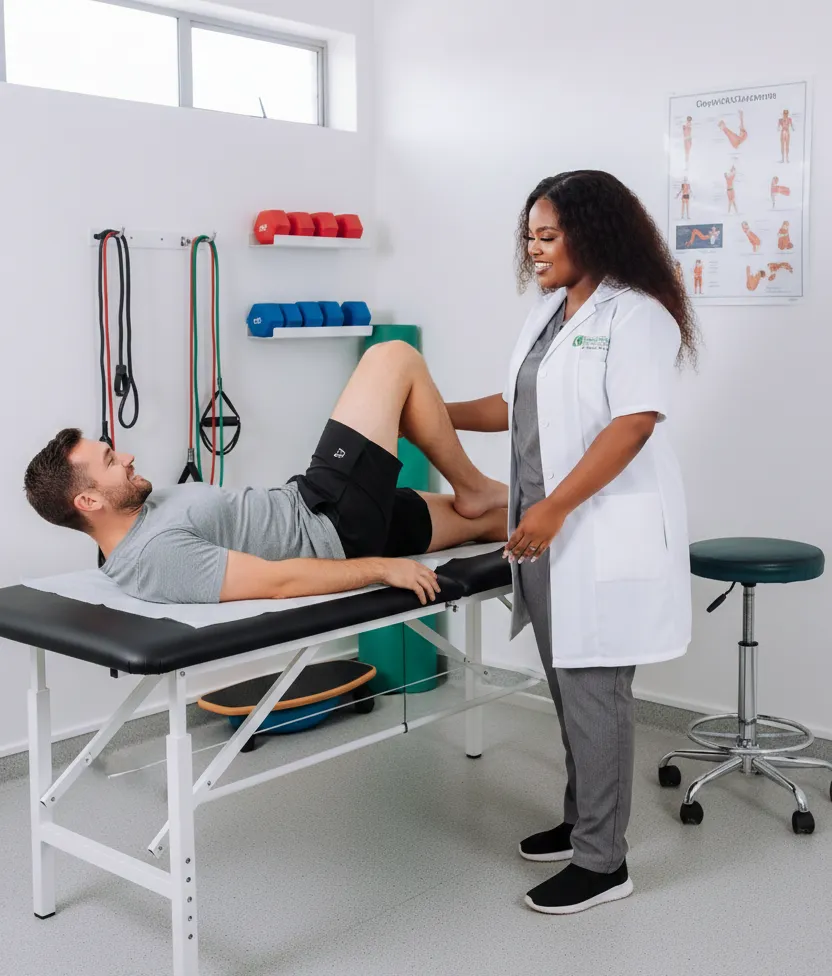
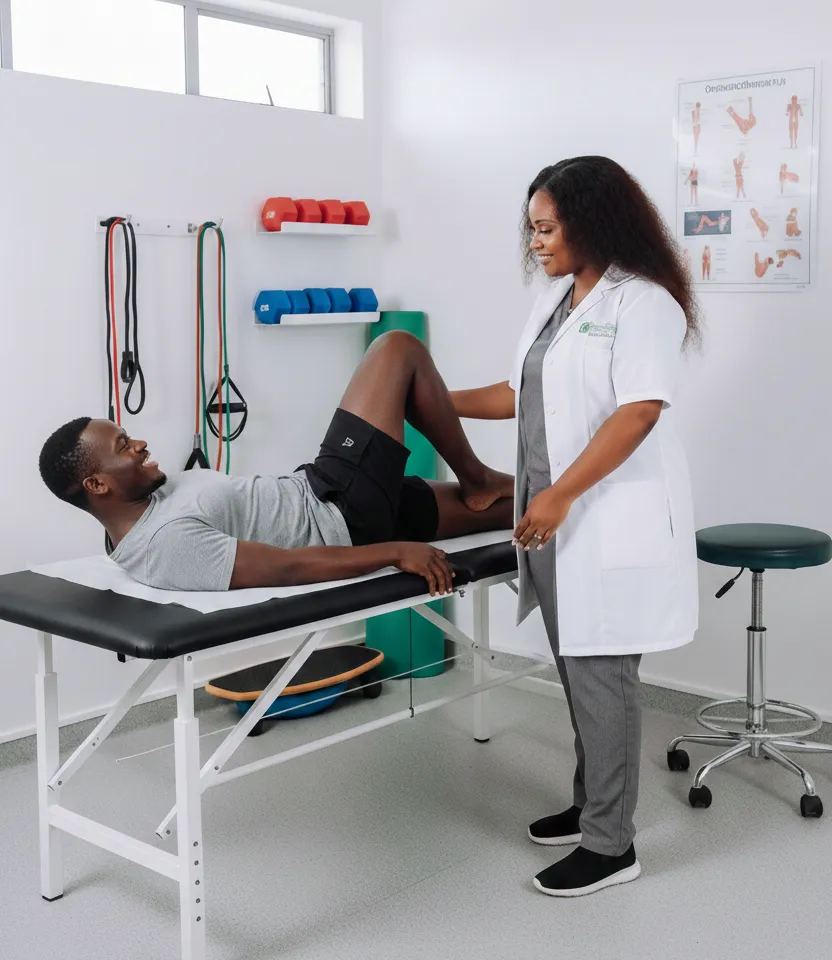
Refactor code structure for improved readability and maintainability

diff --git a/index.html b/index.html
@@ -53,7 +53,7 @@
             <div class="hero-text">
                 <span class="hero-badge">Physiotherapy &amp; Rehabilitation</span>
                 <h1>Evidence-Based Physiotherapy for <span class="accent">Every Step</span> of Your Journey</h1>
-                <p>Noxolo Duma Physiotherapy delivers evidence-based, research-informed physiotherapy with a special focus on orthopaedic, neurological, neurosurgical, and cardiothoracic conditions across KwaZulu-Natal.</p>
+                <p>Noxolo Duma Physiotherapy delivers evidence-based, research-informed physiotherapy with a special focus on orthopaedic, neurological, neurosurgical, and cardiothoracic conditions across Durban CBD and Pinetown.</p>
                 <div class="hero-btns">
                     <button class="btn-primary" onclick="openBooking()">Book an Appointment</button>
                     <button class="btn-outline" onclick="showPage('services')">Our Services</button>
@@ -68,12 +68,12 @@
             </div>
             <div class="hero-visual">
                 <div class="hero-card-main">
-                    <img src="Noxolo-Duma-Image.jpg" alt="Physiotherapy treatment">
+                    <img src="Noxolo-Duma-Main-Image.webp" alt="Physiotherapy treatment">
                     <div class="hero-badge-float">
                         <div class="badge-icon">✦</div>
                         <div>
                             <strong>HPCSA Registered</strong>
-                            <p>PhD Candidate · UKZN</p>
+                            <p>Founder · Director · PhD Candidate · UKZN</p>
                         </div>
                     </div>
                 </div>
@@ -87,13 +87,13 @@
     <!-- TRUST BAR -->
     <section class="trust-bar">
         <div class="trust-container">
-            <div class="trust-item"><span class="trust-icon">🎓</span><span>PhD Candidate · UKZN</span></div>
+            <div class="trust-item"><span class="trust-icon">🎓</span><span>PhD Candidate (UKZN)</span></div>
             <div class="trust-sep"></div>
-            <div class="trust-item"><span class="trust-icon">📋</span><span>Master of Public Health (B.Physio)</span></div>
+            <div class="trust-item"><span class="trust-icon">📋</span><span>Master of Public Health (UKZN)</span></div>
+            <div class="trust-sep"></div>
+            <div class="trust-item"><span class="trust-icon">📋</span><span>Bachelor of Physiotherapy (UKZN)</span></div>
             <div class="trust-sep"></div>
             <div class="trust-item"><span class="trust-icon">🔬</span><span>Published Researcher</span></div>
-            <div class="trust-sep"></div>
-            <div class="trust-item"><span class="trust-icon">💳</span><span>Medical Aid Accepted</span></div>
         </div>
     </section>
 
@@ -105,24 +105,22 @@
                     <img src="Noxolo-Duma-With-Patient.webp" alt="Noxolo Duma at work">
                 </div>
                 <div class="img-accent">
-                    <img src="https://images.unsplash.com/photo-1576091160399-112ba8d25d1d?w=280&h=300&fit=crop&q=80" alt="Paediatric care">
+                    <img src="Noxolo-Duma-Silondile-Nkala-Image.webp" alt="Paediatric care">
                 </div>
-                <div class="experience-badge">
-                    <strong>MPH</strong>
-                    <span>Public Health</span>
-                </div>
+                <!-- <div class="experience-badge">
+                    <strong></strong>
+                    <span></span>
+                </div> -->
             </div>
             <div class="split-text">
                 <span class="section-tag">About Noxolo Duma</span>
                 <h2>A Clinician, Researcher &amp; Advocate for Improved Rehabilitation Services</h2>
-                <p>Noxolo Duma is a registered physiotherapist and PhD Candidate at the University of KwaZulu-Natal (UKZN), where she focuses her doctoral research on developing contextualised, evidence-based rehabilitation models for children with Cerebral Palsy in South Africa.</p>
-                <p>Holding a Master of Public Health, Noxolo bridges the gap between clinical physiotherapy practice and public health — bringing a uniquely broad perspective to patient care and community-based rehabilitation.</p>
+                <p>Noxolo Duma is a physiotherapist and PhD Candidate at the University of KwaZulu-Natal (UKZN), where she focuses her doctoral research on developing a model of care for children with cerebral palsy in KwaZulu-Natal, South Africa.</p>
+                <p>Holding a Master of Public Health, Noxolo bridges the gap between clinical physiotherapy practice and public health, bringing a uniquely broad perspective to patient care and community-based rehabilitation.</p>
                 <div class="feature-list">
-                    <div class="feature-item"><span class="check">✓</span>Paediatric Rehabilitation Specialist</div>
-                    <div class="feature-item"><span class="check">✓</span>Published in Peer-Reviewed Journals</div>
-                    <div class="feature-item"><span class="check">✓</span>Neurology &amp; Community-Based Rehab</div>
-                    <div class="feature-item"><span class="check">✓</span>Orthopaedic Rehabilitation</div>
-                    <div class="feature-item"><span class="check">✓</span>Cardiothoracic Rehabilitation</div>
+                    <div class="feature-item"><span class="check">✓</span>Physiotherapy</div>
+                    <div class="feature-item"><span class="check">✓</span>Public Health</div>
+                    <div class="feature-item"><span class="check">✓</span>Published Researcher in Peer-Reviewed Journals</div>
                 </div>
                 <button class="btn-primary" onclick="showPage('about')">Learn More About Us</button>
             </div>
@@ -140,19 +138,13 @@
             <div class="service-card" onclick="showPage('services')">
                 <div class="service-icon-wrap"><span>👶</span></div>
                 <h3>Paediatric Rehabilitation</h3>
-                <p>Specialised physiotherapy for children, including those with Cerebral Palsy, developmental delays, and paediatric neurological conditions.</p>
+                <p>Physiotherapy for children, including those with Cerebral Palsy, developmental delays, and paediatric neurological conditions. Physiotherapy for children with neurological conditions such as cerebral palsy, developmental delays, general paediatric rehabilitation for fractures and injuries</p>
                 <span class="card-arrow">→</span>
             </div>
             <div class="service-card featured" onclick="showPage('services')">
                 <div class="service-icon-wrap"><span>🧠</span></div>
                 <h3>Neurological Rehabilitation</h3>
-                <p>Expert management of neurological conditions affecting movement, posture, and function — grounded in the latest clinical evidence.</p>
-                <span class="card-arrow">→</span>
-            </div>
-            <div class="service-card" onclick="showPage('services')">
-                <div class="service-icon-wrap"><span>🏘</span></div>
-                <h3>Community-Based Rehabilitation</h3>
-                <p>Accessible, contextually relevant rehabilitation services designed to reach patients in community settings across KwaZulu-Natal.</p>
+                <p>Assessment and treatment of neurological conditions affecting movement, balance, and functional independence. Evidence-based approaches for stroke, brain injury, Parkinson's, and more. Our approach is grounded in the latest clinical research and interprofessional rehabilitation frameworks.</p>
                 <span class="card-arrow">→</span>
             </div>
             <div class="service-card" onclick="showPage('services')">
@@ -314,47 +306,6 @@
         </div>
     </section>
 
-    <!-- EXPERTISE AREAS -->
-    <section class="values-section">
-        <div class="section-header centered">
-            <span class="section-tag">Areas of Expertise</span>
-            <h2>Skills &amp; Specialisations</h2>
-            <p>Noxolo Duma's clinical expertise is directly informed by her academic research and public health background.</p>
-        </div>
-        <div class="values-grid">
-            <div class="value-card">
-                <div class="value-icon">👶</div>
-                <h3>Paediatric Rehabilitation</h3>
-                <p>Specialised assessment and treatment of children with physical, neurological, and developmental conditions including Cerebral Palsy.</p>
-            </div>
-            <div class="value-card">
-                <div class="value-icon">🧠</div>
-                <h3>Neurology Rehabilitation</h3>
-                <p>Evidence-based physiotherapy for neurological conditions, guided by the latest clinical research and rehabilitative frameworks.</p>
-            </div>
-            <div class="value-card">
-                <div class="value-icon">🏘</div>
-                <h3>Community-Based Rehab</h3>
-                <p>Contextualised rehabilitation delivered in community settings, aligned with South African public health priorities and realities.</p>
-            </div>
-            <div class="value-card">
-                <div class="value-icon">🧘</div>
-                <h3>Mental Health</h3>
-                <p>Physiotherapy support that acknowledges the psychological dimensions of pain and disability, promoting holistic wellbeing.</p>
-            </div>
-            <div class="value-card">
-                <div class="value-icon">💊</div>
-                <h3>Preventive Medicine</h3>
-                <p>Proactive, preventive care strategies that reduce the risk of injury, disease progression, and long-term disability.</p>
-            </div>
-            <div class="value-card">
-                <div class="value-icon">🤝</div>
-                <h3>Delivery of Health Care</h3>
-                <p>Expertise in how healthcare is structured and delivered — ensuring patients receive the right care, in the right way, at the right time.</p>
-            </div>
-        </div>
-    </section>
-
     <!-- ACADEMIC PROFILE -->
     <section class="academic-section">
         <div class="academic-inner">
@@ -447,11 +398,11 @@
  <section class="services-full">
         <div class="services-full-grid">
             <div class="service-full-card" onclick="openServiceDetail('paeds')">
-                <div class="sfc-img"><img src="https://images.unsplash.com/photo-1631217868264-e5b90bb7e133?w=600&h=350&fit=crop&q=80" alt="Paediatric Rehab"></div>
+                <div class="sfc-img"><img src="Noxolo-Duma-With-Baby.webp" alt="Paediatric Rehab"></div>
                 <div class="sfc-body">
                     <div class="sfc-icon">👶</div>
                     <h3>Paediatric Rehabilitation</h3>
-                    <p>Expert physiotherapy for children with Cerebral Palsy, developmental delays, and paediatric neurological conditions. Informed by Noxolo Duma's own published research on CP management in low- and middle-income countries.</p>
+                    <p>Physiotherapy for children, including those with Cerebral Palsy, developmental delays, and paediatric neurological conditions. Physiotherapy for children with neurological conditions such as cerebral palsy, developmental delays, general paediatric rehabilitation for fractures and injuries.</p>
                     <button class="btn-small">Learn More →</button>
                 </div>
             </div>
@@ -460,25 +411,7 @@
                 <div class="sfc-body">
                     <div class="sfc-icon">🧠</div>
                     <h3>Neurological Rehabilitation</h3>
-                    <p>Assessment and treatment of neurological conditions affecting movement, balance, and functional independence. Evidence-based approaches for stroke, brain injury, Parkinson's, and more.</p>
-                    <button class="btn-small">Learn More →</button>
-                </div>
-            </div>
-            <div class="service-full-card" onclick="openServiceDetail('community')">
-                <div class="sfc-img"><img src="https://images.unsplash.com/photo-1582213782179-e0d53f98f2ca?w=600&h=350&fit=crop&q=80" alt="Community Rehab"></div>
-                <div class="sfc-body">
-                    <div class="sfc-icon">🏘</div>
-                    <h3>Community-Based Rehabilitation</h3>
-                    <p>Rehabilitation services delivered within community settings — making quality physiotherapy accessible to patients across KwaZulu-Natal, regardless of circumstance.</p>
-                    <button class="btn-small">Learn More →</button>
-                </div>
-            </div>
-            <div class="service-full-card" onclick="openServiceDetail('mental')">
-                <div class="sfc-img"><img src="https://images.unsplash.com/photo-1506126613408-eca07ce68773?w=600&h=350&fit=crop&q=80" alt="Mental Health"></div>
-                <div class="sfc-body">
-                    <div class="sfc-icon">🧘</div>
-                    <h3>Mental Health &amp; Wellbeing</h3>
-                    <p>Physiotherapy that acknowledges the strong link between physical health and mental wellbeing. Holistic programmes that support both body and mind.</p>
+                    <p>Assessment and treatment of neurological conditions affecting movement, balance, and functional independence. Evidence-based approaches for stroke, brain injury, Parkinson's, and more. Our approach is grounded in the latest clinical research and interprofessional rehabilitation frameworks.</p>
                     <button class="btn-small">Learn More →</button>
                 </div>
             </div>

diff --git a/script.js b/script.js
@@ -253,31 +253,17 @@ function openTeamModal(key) {
 const serviceData = {
     paeds: {
         icon: '👶', title: 'Paediatric Rehabilitation',
-        img: 'https://images.unsplash.com/photo-1559839734-2b71ea197ec2?w=600&h=320&fit=crop&q=80',
-        intro: 'Our paediatric rehabilitation service is directly informed by Noxolo Duma\'s published research on physiotherapy management of children with Cerebral Palsy in low- and middle-income countries. We provide specialist, evidence-based care for children with a range of physical and neurological conditions.',
+        img: 'Noxolo-Duma-With-Baby.webp',
+        intro: '',
         treats: ['Cerebral Palsy (all GMFCS levels)', 'Developmental delays and motor dysfunction', 'Paediatric neurological conditions', 'Musculoskeletal conditions in children', 'Post-surgical paediatric rehabilitation'],
         duration: '45–60 min', sessions: 'Individualised programme'
     },
     neuro: {
         icon: '🧠', title: 'Neurological Rehabilitation',
         img: 'https://images.unsplash.com/photo-1544161515-4ab6ce6db874?w=600&h=320&fit=crop&q=80',
-        intro: 'Evidence-based neurological physiotherapy for patients recovering from or managing neurological conditions. Our approach is grounded in the latest clinical research and interprofessional rehabilitation frameworks.',
-        treats: ['Stroke and hemiplegia recovery', 'Parkinson\'s disease management', 'Multiple sclerosis', 'Brain injury rehabilitation', 'Balance and coordination disorders'],
+        intro: 'Our approach is grounded in the latest clinical research and interprofessional rehabilitation frameworks.',
+        treats: ['Stroke', 'Traumatic brain injury', 'Balance and co-ordination disorders', 'Spinal cord injuries'],
         duration: '60 min', sessions: 'Long-term ongoing programme'
-    },
-    community: {
-        icon: '🏘', title: 'Community-Based Rehabilitation',
-        img: 'https://images.unsplash.com/photo-1576091160399-112ba8d25d1d?w=600&h=320&fit=crop&q=80',
-        intro: 'Contextually relevant rehabilitation delivered within community settings — making quality physiotherapy accessible to patients across KwaZulu-Natal, aligned with South African public health priorities.',
-        treats: ['Home-based rehabilitation', 'School-based physiotherapy support', 'Community disability programmes', 'Family and caregiver training', 'Health promotion and education'],
-        duration: 'Varies', sessions: 'Programme-based'
-    },
-    mental: {
-        icon: '🧘', title: 'Mental Health & Wellbeing',
-        img: 'https://images.unsplash.com/photo-1571019614242-c5c5dee9f50b?w=600&h=320&fit=crop&q=80',
-        intro: 'Physiotherapy that recognises the strong link between physical health and mental wellbeing. Holistic programmes that address both body and mind for improved overall health outcomes.',
-        treats: ['Chronic pain and psychosocial impact', 'Anxiety and movement rehabilitation', 'Stress-related musculoskeletal conditions', 'Mind-body wellness programmes', 'Rehabilitation psychology integration'],
-        duration: '45–60 min', sessions: 'As clinically indicated'
     },
     manual: {
         icon: '🤲', title: 'Manual Therapy',
